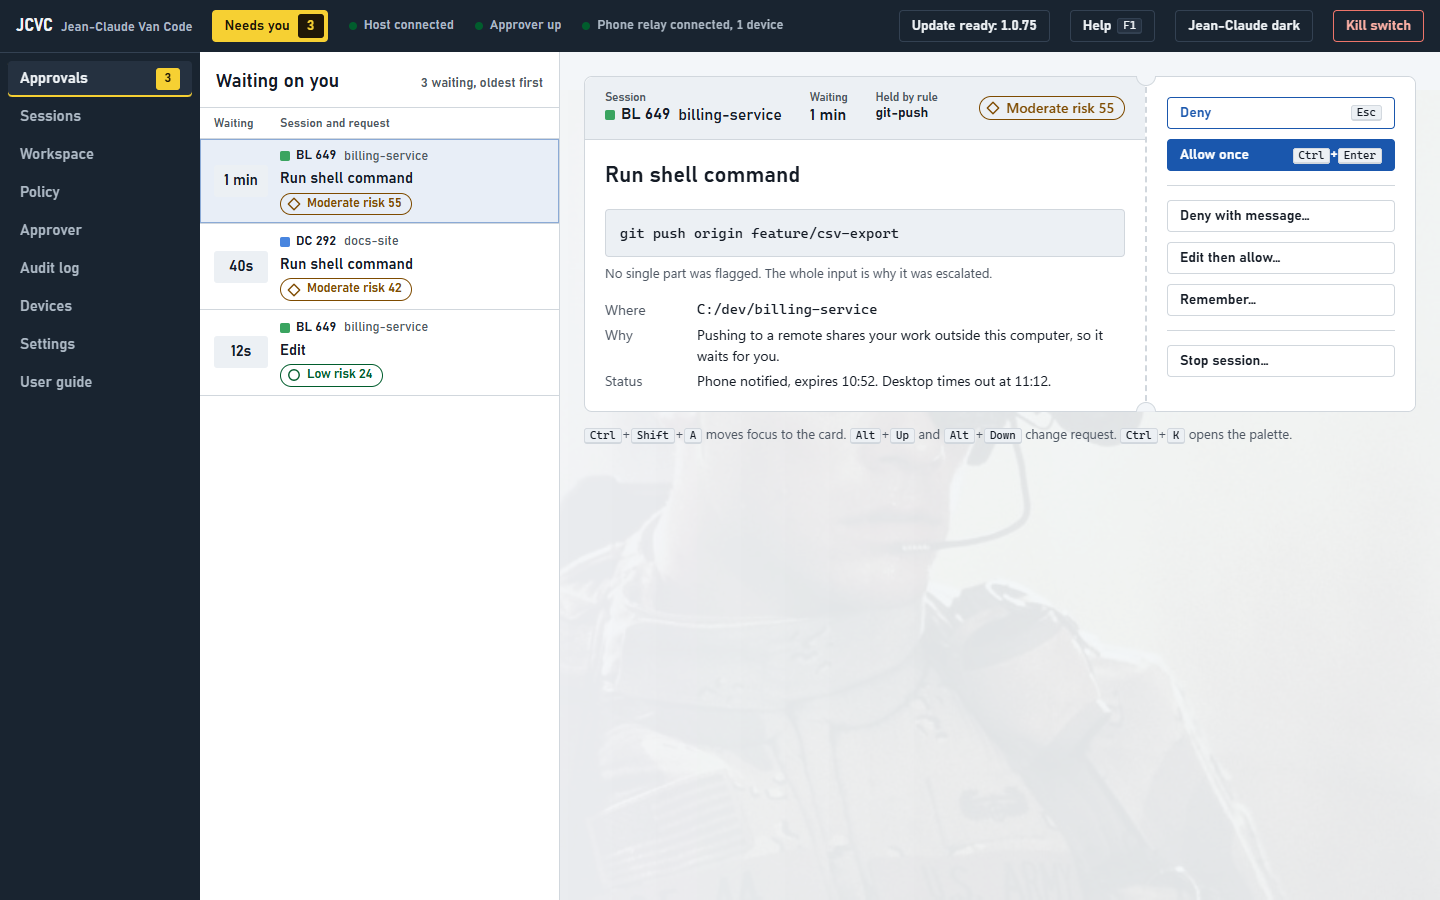
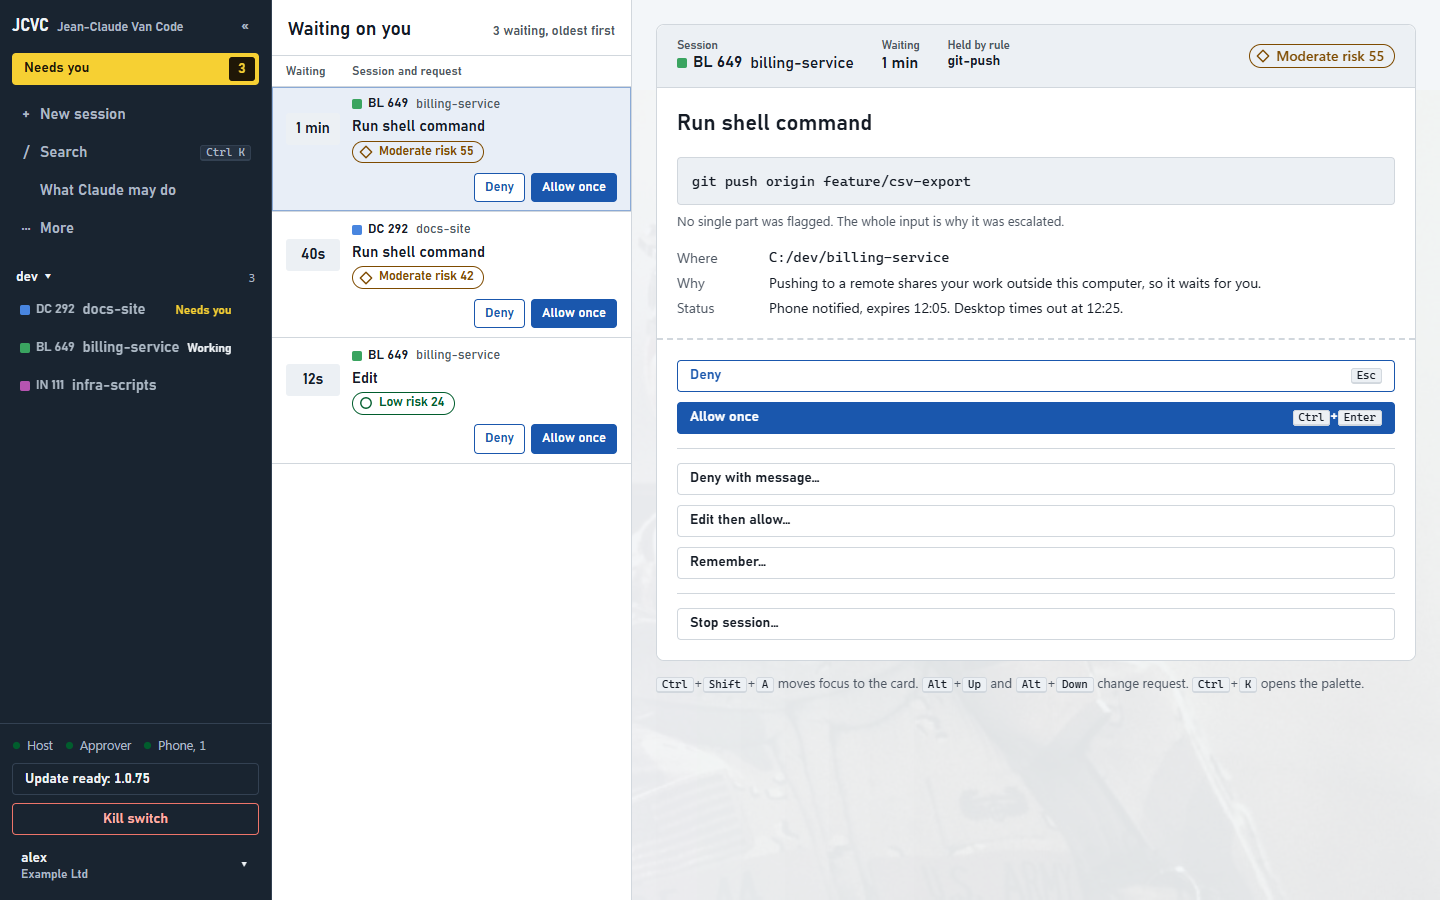
docs: README pictures and text for the sidebar, plain policy and new projects
New pictures of the workspace and the What Claude may do page; the demo
opens its update dialog from the sidebar and its sample notes name real
features.

diff --git a/apps/web/src/demo/screens.tsx b/apps/web/src/demo/screens.tsx
@@ -31,9 +31,9 @@ const UPDATE: UpdateStatus = {
   latest: {
     version: "1.0.75",
     notes: [
-      "- Context used and background tasks on each session's rail",
-      "- Faster start: the Approver starts while the window opens",
-      "- Approval cards show which files a command will touch",
+      "- Allow or deny a request inside the session that asked",
+      "- What Claude may do, in plain words, with three levels",
+      "- Start a new project from what you want to build",
     ].join("\n"),
   },
   phase: "ready",
@@ -462,7 +462,7 @@ createRoot(document.getElementById("root") as HTMLElement).render(
 // Views that need a click or a scroll once the page is up.
 setTimeout(() => {
   if (view === "update")
-    [...document.querySelectorAll("header button")]
+    [...document.querySelectorAll(".rail button")]
       .find((b) => b.textContent?.startsWith("Update"))
       ?.dispatchEvent(new MouseEvent("click", { bubbles: true }))
   if (view === "settings")

diff --git a/scripts/screenshots.ts b/scripts/screenshots.ts
@@ -21,6 +21,7 @@ const SHOTS = [
   { file: "approvals.png", view: "approvals", theme: "light" },
   { file: "approvals-dark.png", view: "approvals", theme: "dark" },
   { file: "workspace.png", view: "workspace", theme: "dark" },
+  { file: "policy.png", view: "policy", theme: "light" },
   { file: "update.png", view: "update", theme: "light" },
   { file: "settings-updates.png", view: "settings", theme: "light" },
 ]

diff --git a/README.md b/README.md
@@ -47,10 +47,13 @@ You need Node 24 and Git. Quit JCVC from its tray icon before running it over a 
 
 ### Sessions you can watch
 
-![Two sessions side by side in the workspace, each with its own model, mode and composer](docs/images/workspace.png)
+![The sidebar of sessions grouped by folder, and two sessions side by side, each waiting on a request that can be allowed or denied in place](docs/images/workspace.png)
 
-- Start a session on a folder, with the model, the effort and the mode you choose: **Manual** (asks before edits and commands), **Plan**, **Accept edits** or **Auto**. JCVC never uses the modes that skip permission checks.
-- Watch up to three sessions side by side, each with its own transcript, plan and task list, files and composer.
+- Your sessions sit in a sidebar, grouped by folder, with those that need you first. Every other page, the theme and help are in the profile menu at its foot, beside the kill switch.
+- **Start a new project from what you want to build.** Choose where new projects go in Settings, then say what you want: JCVC names a folder from it, makes it a git repository and sends your words as the first prompt. Or start a session on a folder you choose.
+- Pick the model, the effort and the mode under the prompt box: **Manual** (asks before edits and commands), **Plan**, **Accept edits** or **Auto**. JCVC never uses the modes that skip permission checks.
+- Watch up to three sessions side by side, each with its own transcript, plan, files and browser panels, and composer. A line under the transcript says what Claude is doing, how long it has taken and when anything last arrived, and says so if a turn looks stuck.
+- Runs of tool calls fold into one readable line ("Ran 2 commands, read schema.ts") that opens to each call.
 - See the files a session made or changed, browse its folder, and open files in a viewer (code, markdown, pictures, HTML) or a local dev server in a built-in browser.
 - Add files, photos, folders, slash commands and skills from the **+** menu, or paste a picture into the prompt.
 
@@ -65,11 +68,15 @@ Every permission request goes to the **Approver**, which answers in this order:
 
 Shell commands are parsed properly (Bash with tree-sitter, PowerShell with its own parser), so a safe command chained to a dangerous one is caught. If anything goes wrong while deciding, the request waits for you. It is never allowed by mistake.
 
-The **rule library** has packs for git, package managers, build tools, cloud command lines, file edits, the web, PowerShell and MCP servers. Switch packs on and off, write your own rules, and replay a change against your past decisions before you save it.
+**What Claude may do**, in plain words: choose Careful, Balanced (for building an app) or Hands-off, or set each switch yourself, such as letting Claude install packages for your project without asking. Every change saves at once and can be undone. It shows what is always blocked, offers rules learned from what you keep allowing, and answers "what would happen if Claude wanted to...".
+
+![What Claude may do: the three levels, with Balanced chosen, and the switches for files and commands](docs/images/policy.png)
+
+Under **Advanced**, the rule library has packs for git, package managers, build tools, running your app, the web, cloud command lines, containers and extra caution on Windows. Switch packs on and off, write your own rules, and replay a change against your past decisions before you save it.
 
 ### You decide the rest, here or on your phone
 
-- A request that needs you appears on the board with the exact command or diff, the rule that held it, a risk score and why. Allow, deny, deny with a message, edit then allow (the edit is checked again), or remember the choice.
+- A request that needs you appears in its session, above the prompt box, with Allow once and Deny, and on the board with the exact command or diff, the rule that held it, a risk score and why. Allow, deny, deny with a message, edit then allow (the edit is checked again), or remember the choice.
 - Windows tells you when something is waiting, even with JCVC closed to the tray.
 - **On your iPhone:** pair it once with a passkey. Requests reach it end to end encrypted through a Relay that runs inside JCVC or on a server of yours, and your answer only counts after JCVC has checked the passkey signature.
 - **Through ntfy or Slack:** a short, redacted summary with single-use Allow and Deny codes. Severe requests can never be allowed this way.
